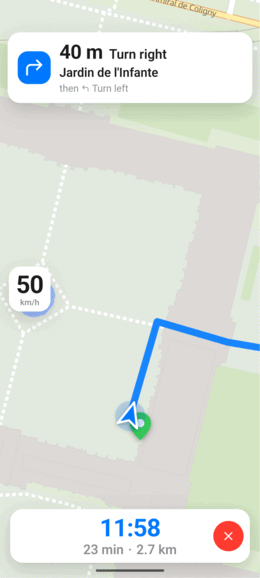
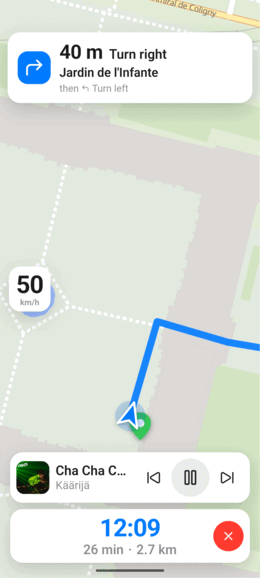
page d'accueil : la capture de navigation montre aussi la musique en cours
L'encart « musique en cours » n'existe que pendant un guidage : c'est donc la
seule capture où il peut se voir. Reprise avec un lecteur actif — pochette,
titre, artiste et commandes pause / précédent / suivant — au-dessus de la barre
d'arrivée, sous le bandeau de manœuvre et le compteur.

La légende des deux README le dit désormais : « et ce que vous écoutez, quel que
soit le lecteur » — le greffon lit les sessions média d'Android, sans rien
connaître du lecteur employé.

Changed region(s): [[0.0308, 0.7785, 0.9846, 0.9343], [0.3385, 0.9343, 0.3692, 0.9654]]

diff --git a/README.fr.md b/README.fr.md
@@ -53,9 +53,9 @@ encore.
 </tr>
 <tr>
 <td width="33%" align="center">
-<img src="docs/screenshots/04-navigation.png" width="220" alt="Navigation voiture pas à pas"><br>
+<img src="docs/screenshots/04-navigation.png" width="220" alt="Navigation voiture pas à pas avec la musique en cours"><br>
 <b>La navigation au volant</b><br>
-<sub>Instruction après instruction, avec la circulation en direct, les vitesses limites et les voies à emprunter.</sub>
+<sub>Instruction après instruction, avec la circulation en direct, les vitesses limites — et ce que vous écoutez, quel que soit le lecteur.</sub>
 </td>
 <td width="33%" align="center">
 <img src="docs/screenshots/05-offline.png" width="220" alt="Téléchargement d'une zone hors ligne"><br>

diff --git a/README.md b/README.md
@@ -52,9 +52,9 @@ It is **alpha** software: it works, it is used daily, and it still changes.
 </tr>
 <tr>
 <td width="33%" align="center">
-<img src="docs/screenshots/04-navigation.png" width="220" alt="Turn-by-turn driving navigation"><br>
+<img src="docs/screenshots/04-navigation.png" width="220" alt="Turn-by-turn driving navigation with music controls"><br>
 <b>Drive with confidence</b><br>
-<sub>Turn-by-turn driving, with live traffic, speed limits and lane guidance.</sub>
+<sub>Turn-by-turn driving with live traffic and speed limits — and whatever you are listening to, from any player.</sub>
 </td>
 <td width="33%" align="center">
 <img src="docs/screenshots/05-offline.png" width="220" alt="Offline area download"><br>
